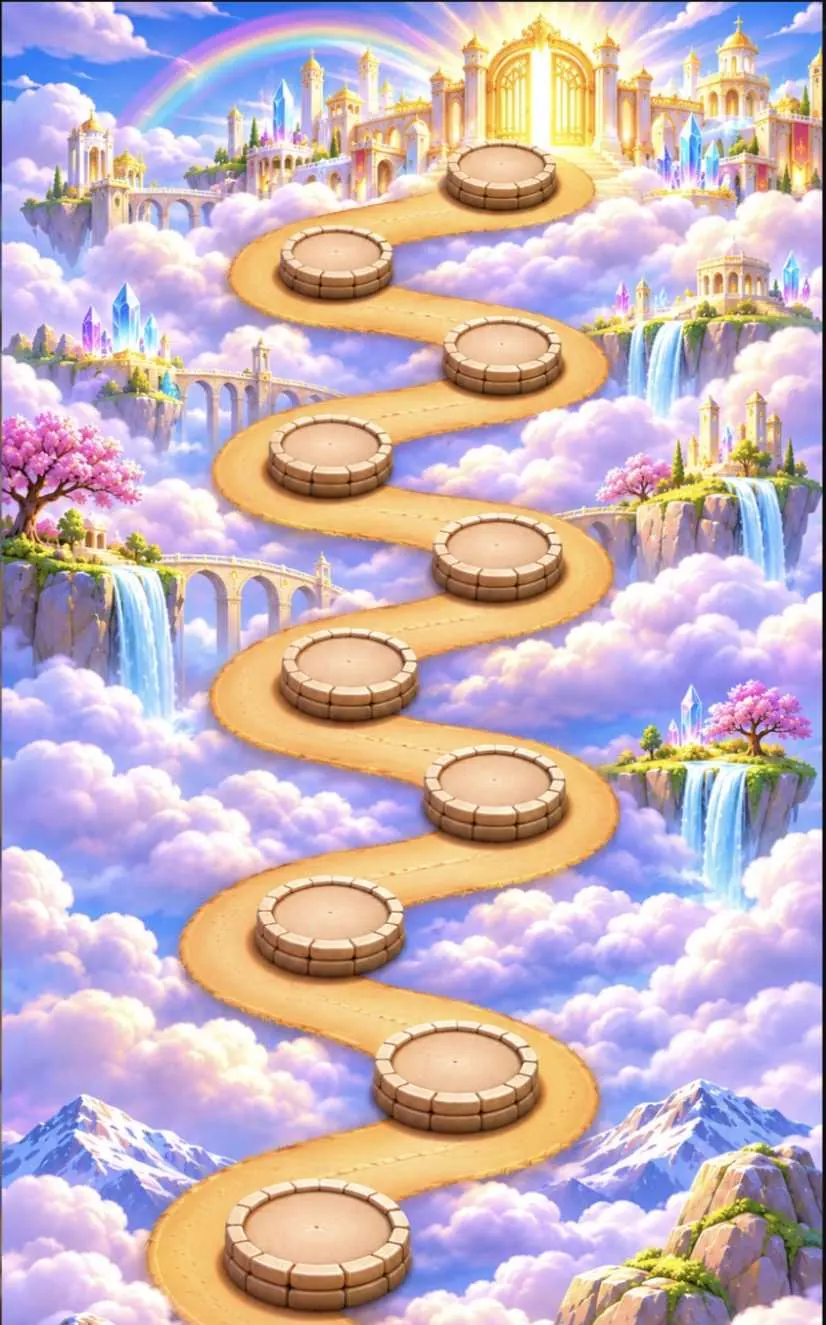
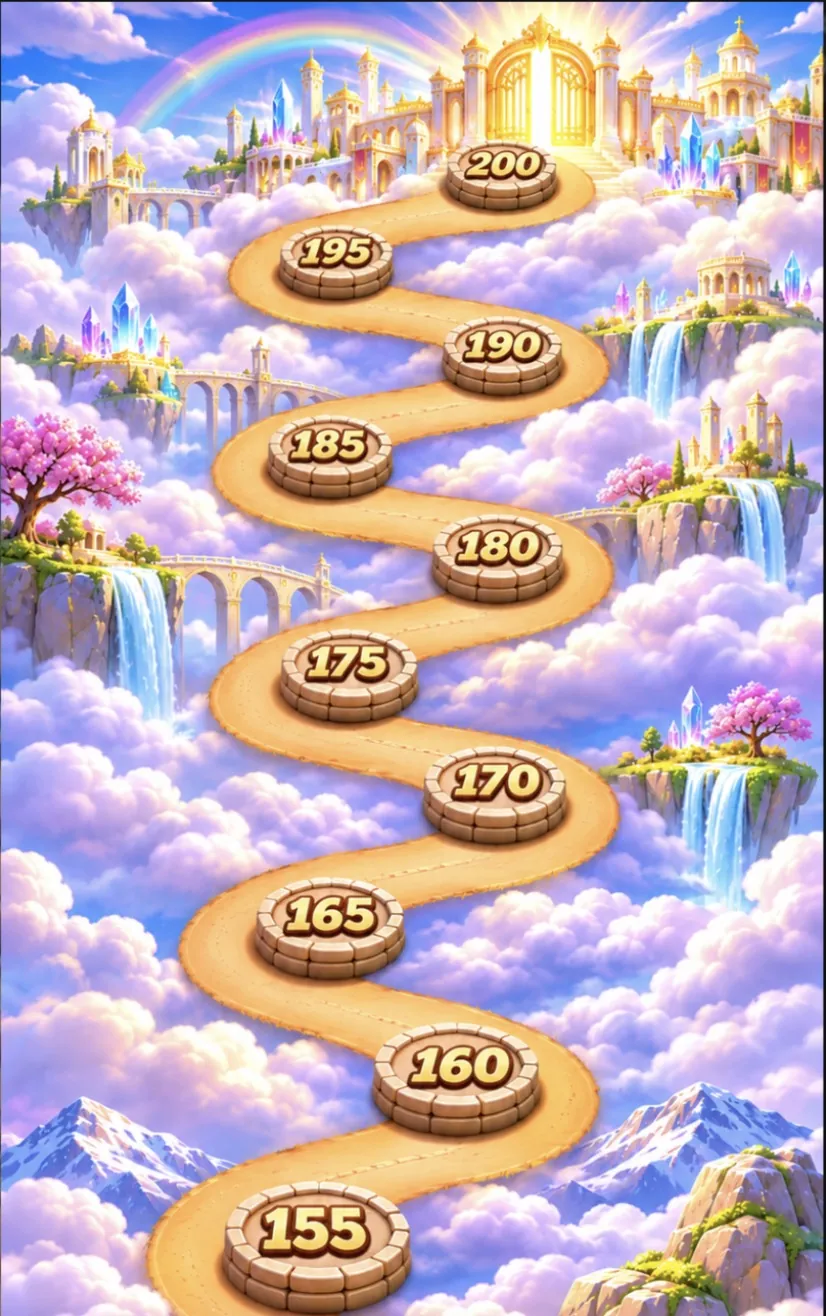
Путь: карты с нарисованными номерами, тусклые будущие шаги, подсказка по нажатию, Иисус на главной
Claude-Session: https://claude.ai/code/session_01GjvPsNJ8MudpS2gY91DJ4Y

diff --git a/app/me/index.html b/app/me/index.html
@@ -90,22 +90,24 @@ a{color:inherit}
 .pth{position:fixed;inset:0;z-index:25;background:var(--bg);display:flex;flex-direction:column}
 .pth .hd{flex-shrink:0;display:flex;align-items:center;gap:12px;padding:calc(10px + env(safe-area-inset-top)) 14px 10px;border-bottom:1px solid var(--line)}
 .pth .sc{flex:1;min-height:0;overflow-y:auto;-webkit-overflow-scrolling:touch;overscroll-behavior:contain}
-.pth .map{position:relative;max-width:520px;margin:0 auto;aspect-ratio:826/5302;background:#2A2D35}
+.pth .map{position:relative;max-width:520px;margin:0 auto;aspect-ratio:826/5265;background:#2A2D35}
 .pth .map img.t{display:block;width:100%;position:absolute;left:0}
-.pw{position:absolute;left:0;right:0;height:40px;transform:translateY(-125%);display:flex;align-items:center;justify-content:center;background:linear-gradient(180deg,rgba(14,15,18,0),rgba(14,15,18,.82) 35%,rgba(14,15,18,.82) 65%,rgba(14,15,18,0))}
-.pw span{font-family:Unbounded,Inter,sans-serif;font-size:13px;font-weight:700;color:#fff;letter-spacing:.04em}
 .pth .map{container-type:inline-size}
-.pst{position:absolute;transform:translate(-50%,-50%) scaleY(.72);font-family:'Lilita One',Unbounded,Inter,sans-serif;font-size:26px;font-size:6.6cqw;line-height:1;letter-spacing:.01em;color:#8E6E48;text-shadow:0 .28cqw 0 rgba(255,244,220,.75),0 -.2cqw 0 rgba(70,45,20,.45);display:flex;align-items:center;justify-content:center;white-space:nowrap}
-.pst.on{color:#FFD766;-webkit-text-stroke:1.5cqw #7A3A0A;paint-order:stroke fill;text-shadow:0 .5cqw 0 #5A2A06,0 0 2.2cqw rgba(255,196,80,.9)}
-.pst.on::before{content:'';position:absolute;left:50%;top:50%;width:15cqw;height:9cqw;transform:translate(-50%,-50%);border-radius:50%;background:radial-gradient(closest-side,rgba(255,200,90,.55),rgba(255,170,60,.25) 60%,rgba(255,170,60,0));z-index:-1}
-.pj{position:absolute;width:21%;transform:translate(-50%,-93%);pointer-events:none;animation:pjbob 2.6s ease-in-out infinite;filter:drop-shadow(0 6px 6px rgba(0,0,0,.35))}
-.pj img{display:block;width:100%}
-.pj img.b{position:absolute;left:0;top:0;opacity:0;animation:pjblink 4.2s infinite}
-.pj img.a{animation:pjblinka 4.2s infinite}
-@keyframes pjbob{0%,100%{margin-top:0}50%{margin-top:-1.2%}}
-@keyframes pjblink{0%,93%,100%{opacity:0}94%,98%{opacity:1}}
-@keyframes pjblinka{0%,93%,100%{opacity:1}94%,98%{opacity:0}}
-@media (prefers-reduced-motion:reduce){.pj,.pj img{animation:none}}
+.pst{position:absolute;width:19cqw;height:11.5cqw;transform:translate(-50%,-46%);border-radius:50%;-webkit-tap-highlight-color:transparent}
+.pst.off{background:rgba(58,62,78,.5);-webkit-backdrop-filter:grayscale(1) brightness(.82);backdrop-filter:grayscale(1) brightness(.82)}
+@supports ((-webkit-backdrop-filter:grayscale(1)) or (backdrop-filter:grayscale(1))){.pst.off{background:rgba(58,62,78,.22)}}
+.pst.cur{box-shadow:0 0 0 .7cqw rgba(255,255,255,.9),0 0 5cqw 1.2cqw rgba(255,196,80,.9)}
+.ptip{position:absolute;z-index:3;width:62%;transform:translate(-50%,0);background:#fff;color:#16181D;border-radius:18px;padding:12px 14px;display:flex;flex-direction:column;gap:6px;text-align:center;box-shadow:0 10px 30px rgba(0,0,0,.35)}
+.ptip b{font-size:15px}.ptip span{font-size:13px;color:#5B6070;line-height:1.35}
+.ptip .pb{height:10px;border-radius:999px;background:#ECEDF1;overflow:hidden}.ptip .pb i{display:block;height:100%;border-radius:999px;background:var(--acc)}
+.ptip::before{content:'';position:absolute;left:50%;top:-7px;width:14px;height:14px;background:#fff;transform:translateX(-50%) rotate(45deg);border-radius:3px}
+.ptip.up::before{top:auto;bottom:-7px}
+.jcard{display:grid;grid-template-columns:84px 1fr;gap:12px;align-items:center}
+.jcard img{width:84px;height:auto;animation:pjfloat 3.2s ease-in-out infinite;filter:drop-shadow(0 6px 8px rgba(0,0,0,.4))}
+.pj{position:absolute;width:21%;transform:translate(-50%,-93%);pointer-events:none;filter:drop-shadow(0 6px 6px rgba(0,0,0,.35))}
+.pj img{display:block;width:100%;animation:pjfloat 3.2s ease-in-out infinite;will-change:transform}
+@keyframes pjfloat{0%,100%{transform:translateY(0)}50%{transform:translateY(-6%)}}
+@media (prefers-reduced-motion:reduce){.pj img{animation:none}}
 .ov{position:fixed;top:0;left:0;right:0;height:var(--apph,100%);background:rgba(0,0,0,.6);display:flex;align-items:flex-end;justify-content:center;z-index:10}
 .sheet{width:100%;max-width:520px;background:#16181D;border-radius:24px 24px 0 0;padding:22px 20px calc(24px + env(safe-area-inset-bottom));display:flex;flex-direction:column;gap:14px;align-items:center;text-align:center;max-height:90vh;overflow-y:auto}
 .inp[type=date]{-webkit-appearance:none;appearance:none;display:block;min-width:0;max-width:100%;text-align:left;line-height:48px}
@@ -311,17 +313,21 @@ function openVideo(mon) {
   vd.onerror = () => { el.querySelector('#vhint').textContent = 'Видео не загрузилось. Проверь интернет'; };
   vd.play().catch(() => { el.querySelector('#vhint').textContent = 'Нажми на видео, чтобы начать'; });
 }
-const PSTOPS = [[1,50.97,97.812],[3,41.89,94.606],[5,51.82,91.928],[7,35.11,88.57],[10,57.26,86.081],[15,39.95,83.572],[20,59.44,81.441],[30,38.98,79.234],[40,57.75,77.254],[50,36.32,75.556],[55,50.85,73.633],[60,41.89,70.426],[65,50.85,67.409],[70,35.35,64.391],[75,57.26,61.901],[80,39.95,59.393],[85,58.72,57.224],[90,38.98,55.055],[95,57.51,53.074],[100,36.32,51.377],[105,50.85,49.453],[110,41.89,46.247],[115,50.85,43.229],[120,35.35,40.211],[125,57.26,37.722],[130,39.95,35.213],[135,58.72,33.044],[140,38.98,30.875],[145,57.51,28.895],[150,36.56,27.197],[155,38.38,23.67],[160,55.33,20.181],[165,39.95,17.258],[170,59.81,14.9],[175,42.13,12.674],[180,60.17,10.468],[185,39.95,8.582],[190,60.77,6.696],[195,40.56,4.942],[200,60.53,3.301]];
+const PSTOPS = [[1,39.71,94.226],[3,56.3,91.814],[5,38.98,89.345],[7,56.9,87.009],[10,39.35,84.881],[15,57.14,82.887],[20,38.14,80.893],[30,54.12,78.898],[40,38.74,76.942],[50,56.05,75.347],[55,39.95,70.864],[60,56.66,68.395],[65,38.98,65.869],[70,58.11,63.647],[75,39.35,61.462],[80,57.26,59.468],[85,37.77,57.474],[90,54.12,55.48],[95,38.5,53.523],[100,56.3,51.928],[105,39.59,47.445],[110,55.08,44.919],[115,36.92,42.545],[120,55.93,40.19],[125,36.92,37.949],[130,55.45,35.67],[135,39.47,33.39],[140,55.21,31.168],[145,37.29,29.117],[150,53.39,27.445],[155,38.38,23.362],[160,55.21,20.285],[165,39.95,17.379],[170,59.81,15.043],[175,42.13,12.574],[180,60.17,10.351],[185,39.95,8.452],[190,60.77,6.553],[195,40.56,4.748],[200,60.53,3.096]];
 const PWORLD = ['Берег', 'Холмы', 'Горы', 'Небесный город'];
+const PNOTE = { 1: 'Первый шаг сделан. Он рад, что ты здесь.', 3: 'Три дня подряд — открывается ачивка «3 дня».', 7: 'Целая неделя вместе. Ачивка «Неделя в деле».', 30: 'Месяц без пропусков — ачивка и +60 баллов.', 50: 'Берег пройден. Дальше начинаются холмы.', 100: 'Сто дней. Ачивка «100 дней» и +200 баллов.', 150: 'Горы позади. Впереди небесный город. Ачивка «150 дней».', 200: 'Небесные ворота. Весь путь пройден — ачивка «Весь путь» и +400 баллов.' };
+const PWNOTE = ['Начало пути: учимся быть рядом с Ним каждый день.', 'Привычка крепнет. Не сбавляй шаг.', 'Тут уже нужен характер. Он идёт рядом.', 'Финишная прямая — ворота уже видно.'];
 function pathOverlay() {
-  const d = D.appStreak, R = D.restore || { max: 3, left: 3 }; let cur = -1; PSTOPS.forEach((q, i) => { if (d >= q[0]) cur = i; });
-  const nx = PSTOPS[cur + 1]; const pos = cur >= 0 ? PSTOPS[cur] : [0, 50, 99.2];
+  const d = D.appStreak, R = D.restore || { max: 3, left: 3 }, o = S.ov; let cur = -1; PSTOPS.forEach((q, i) => { if (d >= q[0]) cur = i; });
+  const nx = PSTOPS[cur + 1]; const pos = cur >= 0 ? PSTOPS[cur] : [0, 42, 98.6];
   const world = PWORLD[Math.max(0, Math.floor(cur / 10))];
+  let tip = '';
+  if (o.tip != null) { const q = PSTOPS[o.tip], done = d >= q[0], up = q[2] > 55;
+    tip = `<div class="ptip ${up ? 'up' : ''}" style="left:${Math.min(66, Math.max(34, q[1]))}%;${up ? 'bottom:calc(' + (100 - q[2]) + '% + 8cqw)' : 'top:calc(' + q[2] + '% + 8cqw)'}"><b>${q[0]} ${plural(q[0], 'день', 'дня', 'дней')} подряд · ${PWORLD[Math.floor(o.tip / 10)]}</b><span>${PNOTE[q[0]] || PWNOTE[Math.floor(o.tip / 10)]}</span><div class="pb"><i style="width:${Math.min(100, Math.round(d / q[0] * 100))}%"></i></div><span>${done ? 'Пройдено' : d + ' из ' + q[0] + ' · ещё ' + (q[0] - d)}</span></div>`; }
   return `<div class="pth" role="dialog" aria-label="Путь"><div class="hd"><button data-a="close" class="circ" style="width:44px;height:44px;border-radius:12px" aria-label="Назад">${svg('M15 6l-6 6 6 6', '#F4F4F5', 20, 2.5)}</button><div style="flex:1;min-width:0"><div style="font-weight:700;font-size:17px">${d} ${plural(d, 'день', 'дня', 'дней')} подряд · ${world}</div><div class="xs mu">${nx ? 'до остановки «' + nx[0] + '» — ещё ' + (nx[0] - d) : 'Путь пройден'}</div></div><div style="text-align:right"><div style="font-weight:700;color:var(--acc)">${R.left}/${R.max}</div><div class="xs mu">прощений</div></div></div>
-    <div class="sc" id="pthsc"><div class="map">${[[0.0, 24.9906], [24.9906, 24.9906], [49.9811, 24.9906], [74.9717, 25.0283]].map((q, k) => `<img class="t" alt="" src="../media/path/path-${k + 1}.webp" style="top:${q[0]}%;height:calc(${q[1]}% + 1px)">`).join('')}
-      ${[75.292, 51.113, 26.933].map((y, i) => `<div class="pw" style="top:${y}%"><span>${PWORLD[i + 1]} · ${['55–100', '105–150', '155–200'][i]}</span></div>`).join('')}
-      ${PSTOPS.map((q, i) => `<span class="pst ${i <= cur ? 'on' : ''} ${i === cur ? 'cur' : ''}" style="left:${q[1]}%;top:${q[2]}%">${q[0]}</span>`).join('')}
-      <div class="pj" id="pj" style="left:${pos[1]}%;top:${pos[2]}%"><img class="a" alt="" src="../media/path/jesus-a.webp"><img class="b" alt="" src="../media/path/jesus-b.webp"></div></div></div></div>`;
+    <div class="sc" id="pthsc"><div class="map" data-a="pTip" data-x="">${[[0.0, 24.9953], [24.9953, 24.9953], [49.9905, 24.9953], [74.9858, 25.0142]].map((q, k) => `<img class="t" alt="" src="../media/path/path-${k + 1}.webp?v=2" style="top:${q[0]}%;height:calc(${q[1]}% + 1px)">`).join('')}
+      ${PSTOPS.map((q, i) => `<button class="pst ${i > cur ? 'off' : ''} ${i === cur ? 'cur' : ''}" data-a="pTip" data-x="${i}" style="left:${q[1]}%;top:${q[2]}%" aria-label="${q[0]} ${plural(q[0], 'день', 'дня', 'дней')}"></button>`).join('')}
+      <div class="pj" id="pj" style="left:${pos[1]}%;top:${pos[2]}%"><img alt="" src="../media/path/jesus-a.webp"></div>${tip}</div></div></div>`;
 }
 function pathScroll() { const sc = document.getElementById('pthsc'), j = document.getElementById('pj'); if (!sc || !j) return; const m = sc.querySelector('.map'); const y = parseFloat(j.style.top) / 100 * m.offsetHeight; sc.scrollTop = Math.max(0, y - sc.clientHeight * 0.62); }
 function mercyCheck() {
@@ -407,7 +413,8 @@ function viewHome() {
   <button class="card acc" data-a="levels" style="text-align:left;width:100%" aria-label="Все уровни"><div class="row" style="justify-content:space-between"><div><div class="sec" style="color:var(--acc2)">УРОВЕНЬ ${lv.num}</div><div class="h2" style="margin-top:4px;text-decoration:underline;text-decoration-thickness:2px;text-underline-offset:5px;text-decoration-color:var(--acc)">${esc(lv.name)}</div></div><div style="text-align:right"><div style="font-family:Unbounded,Inter,sans-serif;font-size:30px;font-weight:700;color:var(--acc)">${D.pts}</div><div class="xs mu">${plural(D.pts, 'балл', 'балла', 'баллов')}</div></div></div><div class="bar"><i style="width:${lv.pct}%"></i></div><div class="sm mu">${esc(lv.left)}</div></button>
   ${verseCard()}
   ${videoCard()}
-  <button class="card" data-a="daily" style="text-align:left;width:100%"><div class="row" style="justify-content:space-between"><div class="row"><div class="circ got" style="width:44px;height:44px">${svg(I.flame, '#0E0F12', 22)}</div><div><div style="font-weight:700;font-size:17px">${D.appStreak} ${plural(D.appStreak, 'день', 'дня', 'дней')} подряд</div><div class="xs mu">в приложении · рекорд ${D.appBest}</div></div></div><span class="pill">+2/день</span></div><div class="days">${days}</div>${ms ? `<div class="xs mu">До ачивки за ${ms} ${plural(ms, 'день', 'дня', 'дней')} — ещё ${ms - D.appStreak}</div>` : ''}</button>
+  ${(() => { let c = -1; PSTOPS.forEach((q, i) => { if (D.appStreak >= q[0]) c = i; }); const nx = PSTOPS[c + 1];
+    return `<button class="card acc" data-a="daily" style="text-align:left;width:100%" aria-label="Открыть путь"><div class="jcard"><img alt="" src="../media/path/jesus-a.webp"><div style="display:flex;flex-direction:column;gap:6px;min-width:0"><div><div style="font-weight:700;font-size:18px">${D.appStreak} ${plural(D.appStreak, 'день', 'дня', 'дней')} подряд</div><div class="xs mu">${nx ? 'до остановки «' + nx[0] + '» — ещё ' + (nx[0] - D.appStreak) : 'Путь пройден'} · рекорд ${D.appBest}</div></div><span class="btnS" style="align-self:flex-start;height:38px">Открыть путь ›</span></div></div><div class="days">${days}</div></button>`; })()}
   <div class="stats"><div class="stat"><b>${D.weekStreak}</b><span class="xs mu">${plural(D.weekStreak, 'неделя', 'недели', 'недель')} подряд на встречах</span></div><button class="stat" data-a="tab" data-x="rank" style="text-align:left"><b>${D.rank.myMonth ? '#' + D.rank.myMonth : '—'}</b><span class="xs mu">в рейтинге месяца</span></button></div>
   ${sgCards()}
   ${weekCards()}
@@ -604,6 +611,7 @@ const H = {
     catch (e) { Object.assign(PF(), f); o.err = errT(e); render(); }
   },
   daily() { H.path(); },
+  pTip(i) { const o = S.ov; if (!o || o.type !== 'path') return; const sc = document.getElementById('pthsc'), y = sc ? sc.scrollTop : 0; o.tip = i === '' || +i === o.tip ? null : +i; render(); const s2 = document.getElementById('pthsc'); if (s2) s2.scrollTop = y; },
   path() { S.ov = { type: 'path' }; render(); pathScroll(); const im = document.querySelector('.pth img.t'); if (im) im.addEventListener('load', pathScroll, { once: true }); },
   scan() { S.ov = { type: 'scan' }; render(); },
   close() { S.ov = S.ov && S.ov.back ? S.ov.back : null; render(); },
